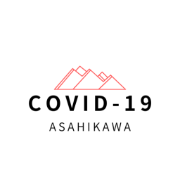
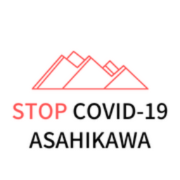
fixed.

Changed region(s): [[0.0556, 0.5278, 0.9444, 0.8333], [0.1667, 0.2778, 0.8333, 0.5]]

diff --git a/ash_unofficial_covid19/templates/index.html b/ash_unofficial_covid19/templates/index.html
@@ -1,7 +1,7 @@
 {% extends 'layout.html' %}
 {% block content %}
 <article>
-  <h1 class="h4 pt-2 pb-1">旭川市内新型コロナウイルス感染状況の最新動向</h1>
+  <h1 class="h4 py-2">旭川市内新型コロナウイルス感染状況の最新動向</h1>
   <p class="text-secondary">感染者数は旭川市公式ホームページから取得した {{ daily_total.today }} 発表分までのデータに基づいて算出しています。（ {{ last_updated }} 更新）</p>
   <div class="card-group mb-2">
     <div class="card">
@@ -51,7 +51,7 @@
       </div>
       <div class="card-body">
         <p><img src="./by_age.png" alt="{{ by_age.get_graph_alt() }}" title="年代別感染者数の割合" class="img-fluid" decoding="async"></p>
-        <p class="card-text text-right small">※年代非公表の人数を除く</p>
+        <p class="card-text text-right small">※調査中等の人数を除く</p>
       </div>
       <div class="card-footer text-muted bg-white">
         <p class="card-text small">出典: <a href="https://www.city.asahikawa.hokkaido.jp/kurashi/135/136/150/d068529.html" title="旭川市公式ホームページ" class="text-muted" target="_blank">旭川市公式ホームページ <i class="fas fa-external-link-alt"></i></a> 最終更新: {{ last_updated }}</p>
@@ -79,11 +79,11 @@
       </div>
       <div class="card-body p-4">
         <h2 class="h5">3回目接種の方</h2>
-        <p class="card-text"><a href="/reservation_statuses" title="ワクチン3回目接種医療機関マップへ" class="btn btn-danger btn-lg btn-block">ワクチン3回目接種医療機関マップへ</a></p>
+        <p class="card-text"><a href="/reservation_statuses" title="ワクチン3回目接種医療機関マップへ" class="btn btn-primary btn-lg btn-block">3回目接種医療機関マップへ</a></p>
         <h2 class="h5">1・2回目接種の方</h2>
-        <p class="card-text"><a href="/first_reservation_statuses" title="ワクチン1・2回目接種医療機関マップへ" class="btn btn-secondary btn-lg btn-block">ワクチン1・2回目接種医療機関マップへ</a></p>
+        <p class="card-text"><a href="/first_reservation_statuses" title="ワクチン1・2回目接種医療機関マップへ" class="btn btn-secondary btn-lg btn-block">1・2回目接種医療機関マップへ</a></p>
         <h2 class="h5">5～11歳接種の方</h2>
-        <p class="card-text"><a href="/child_reservation_statuses" title="ワクチン1・2回目接種医療機関マップへ" class="btn btn-danger btn-lg btn-block">ワクチン5～11歳接種医療機関マップへ</a></p>
+        <p class="card-text"><a href="/child_reservation_statuses" title="ワクチン1・2回目接種医療機関マップへ" class="btn btn-primary btn-lg btn-block">5～11歳接種医療機関マップへ</a></p>
       </div>
     </div>
   </div>

diff --git a/ash_unofficial_covid19/templates/layout.html b/ash_unofficial_covid19/templates/layout.html
@@ -33,14 +33,15 @@
     <link rel="apple-touch-icon" sizes="180x180" href="{{ url_for('static', filename='images/apple-touch-icon.png') }}">
     <link rel="icon" type="image/png" sizes="32x32" href="{{ url_for('static', filename='images/favicon-32x32.png') }}">
     <link rel="icon" type="image/png" sizes="16x16" href="{{ url_for('static', filename='images/favicon-16x16.png') }}">
+    <link rel="manifest" href="{{ url_for('static', filename='js/site.webmanifest') }}">
     <link rel="stylesheet" href="{{ url_for('static', filename='css/add.css') }}">
   </head>
   <body>
     <header>
-      <nav class="navbar navbar-expand-lg fixed-top navbar-light bg-white">
-        <a class="navbar-brand" href="/"><img src="{{ url_for('static', filename='images/title.png') }}" alt="COVID-19 ASAHIKAWA 新型コロナウイルスまとめサイト" title="COVID-19 ASAHIKAWA 新型コロナウイルスまとめサイト" width="256" height="56"></a>
+      <nav class="navbar navbar-expand-md fixed-top navbar-dark bg-dark">
+        <a class="navbar-brand" href="/"><img src="{{ url_for('static', filename='images/title_dark.png') }}" alt="STOP COVID-19 ASAHIKAWA 新型コロナウイルスまとめサイト" title="STOP COVID-19 ASAHIKAWA 新型コロナウイルスまとめサイト" width="180" height="40"></a>
         <div class="dropdown show ml-auto mr-0">
-          <a class="btn btn-secondary dropdown-toggle btn-sm" href="#" role="button" id="dropdownMenuLink" data-toggle="dropdown" aria-haspopup="true" aria-expanded="false">
+          <a class="btn btn-dark dropdown-toggle" href="#" role="button" id="dropdownMenuLink" data-toggle="dropdown" aria-haspopup="true" aria-expanded="false">
             Menu
           </a>
           <div class="dropdown-menu dropdown-menu-right" aria-labelledby="dropdownMenuLink">

diff --git a/ash_unofficial_covid19/templates/opendata.html b/ash_unofficial_covid19/templates/opendata.html
@@ -1,7 +1,7 @@
 {% extends 'layout.html' %}
 {% block content %}
 <article>
-  <h1 class="h4">非公式オープンデータ</h1>
+  <h1 class="h4 py-2">旭川市新型コロナウイルス感染症非公式オープンデータ</h1>
   <div class="alert alert-danger alert-dismissible fade show mt-3" role="alert">
     <p class="mb-0">{{ last_updated }}にダウンロードしたデータを元に表示しています。正確な情報は必ず<a class="alert-link" href="https://www.city.asahikawa.hokkaido.jp/10013/10014/070236.html" title="旭川市公式ホームページ" target="_blank">旭川市公式ホームページ <i class="fas fa-external-link-alt"></i></a>を確認してください。</p>
     <button type="button" class="close" data-dismiss="alert" aria-label="close">

diff --git a/ash_unofficial_covid19/templates/child_reservation_status_area.html b/ash_unofficial_covid19/templates/child_reservation_status_area.html
@@ -1,7 +1,7 @@
 {% extends 'layout.html' %}
 {% block content %}
 <article id="childReservationStatus">
-  <div class="alert alert-danger alert-dismissible fade show mt-3" role="alert">
+  <div class="alert alert-danger alert-dismissible fade show" role="alert">
     <p class="mb-0">{{ last_updated }}にダウンロードしたデータを元に表示しています。正確な情報は必ず<a class="alert-link"
         href="https://asahikawa-vaccine.jp/" title="旭川市 新型コロナワクチン接種特設サイト"
         target="_blank">旭川市 新型コロナワクチン接種特設サイト <i class="fas fa-external-link-alt"></i></a>を確認してください。</p>

diff --git a/ash_unofficial_covid19/templates/child_reservation_status_medical_institution.html b/ash_unofficial_covid19/templates/child_reservation_status_medical_institution.html
@@ -1,7 +1,7 @@
 {% extends 'layout.html' %}
 {% block content %}
 <article id="childReservationStatus">
-  <div class="alert alert-danger alert-dismissible fade show mt-3" role="alert">
+  <div class="alert alert-danger alert-dismissible fade show" role="alert">
     <p class="mb-0">{{ last_updated }}にダウンロードしたデータを元に表示しています。正確な情報は必ず<a class="alert-link"
         href="https://asahikawa-vaccine.jp/" title="旭川市 新型コロナワクチン接種特設サイト"
         target="_blank">旭川市 新型コロナワクチン接種特設サイト <i class="fas fa-external-link-alt"></i></a>を確認してください。</p>

diff --git a/ash_unofficial_covid19/templates/child_reservation_status_search_by_gps.html b/ash_unofficial_covid19/templates/child_reservation_status_search_by_gps.html
@@ -1,7 +1,7 @@
 {% extends 'layout.html' %}
 {% block content %}
 <article id="childReservationStatus">
-  <div class="alert alert-danger alert-dismissible fade show mt-3" role="alert">
+  <div class="alert alert-danger alert-dismissible fade show" role="alert">
     <p class="mb-0">{{ last_updated }}にダウンロードしたデータを元に表示しています。正確な情報は必ず<a class="alert-link"
         href="https://asahikawa-vaccine.jp/" title="旭川市 新型コロナワクチン接種特設サイト"
         target="_blank">旭川市 新型コロナワクチン接種特設サイト <i class="fas fa-external-link-alt"></i></a>を確認してください。</p>

diff --git a/ash_unofficial_covid19/templates/first_reservation_status_area.html b/ash_unofficial_covid19/templates/first_reservation_status_area.html
@@ -1,7 +1,7 @@
 {% extends 'layout.html' %}
 {% block content %}
 <article id="firstReservationStatus">
-  <div class="alert alert-danger alert-dismissible fade show mt-3" role="alert">
+  <div class="alert alert-danger alert-dismissible fade show" role="alert">
     <p class="mb-0">{{ last_updated }}にダウンロードしたデータを元に表示しています。正確な情報は必ず<a class="alert-link"
         href="https://asahikawa-vaccine.jp/" title="旭川市 新型コロナワクチン接種特設サイト"
         target="_blank">旭川市 新型コロナワクチン接種特設サイト <i class="fas fa-external-link-alt"></i></a>を確認してください。</p>

diff --git a/ash_unofficial_covid19/templates/first_reservation_status_medical_institution.html b/ash_unofficial_covid19/templates/first_reservation_status_medical_institution.html
@@ -1,7 +1,7 @@
 {% extends 'layout.html' %}
 {% block content %}
 <article id="firstReservationStatus">
-  <div class="alert alert-danger alert-dismissible fade show mt-3" role="alert">
+  <div class="alert alert-danger alert-dismissible fade show" role="alert">
     <p class="mb-0">{{ last_updated }}にダウンロードしたデータを元に表示しています。正確な情報は必ず<a class="alert-link"
         href="https://asahikawa-vaccine.jp/" title="旭川市 新型コロナワクチン接種特設サイト"
         target="_blank">旭川市 新型コロナワクチン接種特設サイト <i class="fas fa-external-link-alt"></i></a>を確認してください。</p>

diff --git a/ash_unofficial_covid19/templates/first_reservation_status_search_by_gps.html b/ash_unofficial_covid19/templates/first_reservation_status_search_by_gps.html
@@ -1,7 +1,7 @@
 {% extends 'layout.html' %}
 {% block content %}
 <article id="firstReservationStatus">
-  <div class="alert alert-danger alert-dismissible fade show mt-3" role="alert">
+  <div class="alert alert-danger alert-dismissible fade show" role="alert">
     <p class="mb-0">{{ last_updated }}にダウンロードしたデータを元に表示しています。正確な情報は必ず<a class="alert-link"
         href="https://asahikawa-vaccine.jp/" title="旭川市 新型コロナワクチン接種特設サイト"
         target="_blank">旭川市 新型コロナワクチン接種特設サイト <i class="fas fa-external-link-alt"></i></a>を確認してください。</p>

diff --git a/ash_unofficial_covid19/templates/reservation_status_area.html b/ash_unofficial_covid19/templates/reservation_status_area.html
@@ -1,7 +1,7 @@
 {% extends 'layout.html' %}
 {% block content %}
 <article>
-  <div class="alert alert-danger alert-dismissible fade show mt-3" role="alert">
+  <div class="alert alert-danger alert-dismissible fade show" role="alert">
     <p class="mb-0">{{ last_updated }}にダウンロードしたデータを元に表示しています。正確な情報は必ず<a class="alert-link"
         href="https://asahikawa-vaccine.jp/" title="旭川市 新型コロナワクチン接種特設サイト"
         target="_blank">旭川市 新型コロナワクチン接種特設サイト <i class="fas fa-external-link-alt"></i></a>を確認してください。</p>

diff --git a/ash_unofficial_covid19/templates/reservation_status_medical_institution.html b/ash_unofficial_covid19/templates/reservation_status_medical_institution.html
@@ -1,7 +1,7 @@
 {% extends 'layout.html' %}
 {% block content %}
 <article>
-  <div class="alert alert-danger alert-dismissible fade show mt-3" role="alert">
+  <div class="alert alert-danger alert-dismissible fade show" role="alert">
     <p class="mb-0">{{ last_updated }}にダウンロードしたデータを元に表示しています。正確な情報は必ず<a class="alert-link"
         href="https://asahikawa-vaccine.jp/" title="旭川市 新型コロナワクチン接種特設サイト"
         target="_blank">旭川市 新型コロナワクチン接種特設サイト <i class="fas fa-external-link-alt"></i></a>を確認してください。</p>

diff --git a/ash_unofficial_covid19/templates/reservation_status_search_by_gps.html b/ash_unofficial_covid19/templates/reservation_status_search_by_gps.html
@@ -1,7 +1,7 @@
 {% extends 'layout.html' %}
 {% block content %}
 <article>
-  <div class="alert alert-danger alert-dismissible fade show mt-3" role="alert">
+  <div class="alert alert-danger alert-dismissible fade show" role="alert">
     <p class="mb-0">{{ last_updated }}にダウンロードしたデータを元に表示しています。正確な情報は必ず<a class="alert-link"
         href="https://asahikawa-vaccine.jp/" title="旭川市 新型コロナワクチン接種特設サイト"
         target="_blank">旭川市 新型コロナワクチン接種特設サイト <i class="fas fa-external-link-alt"></i></a>を確認してください。</p>
